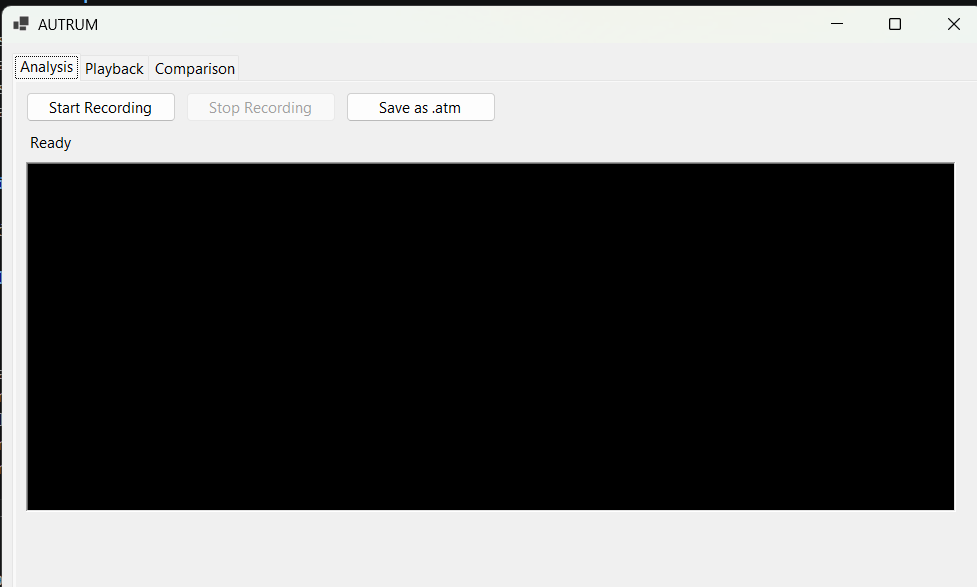
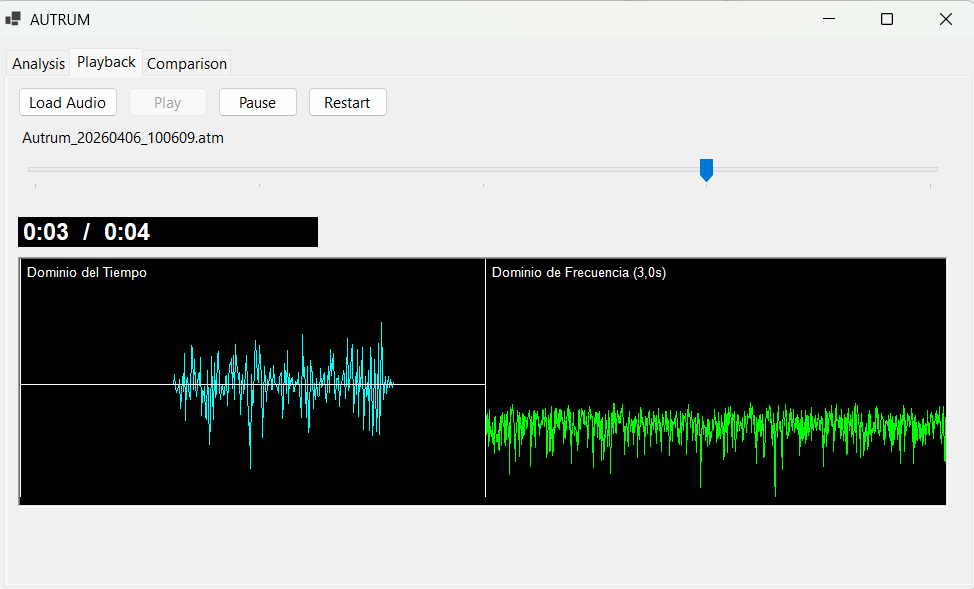
Add image file for Tareas Cortas TC1

Changed region(s): [[0.0, 0.092, 0.9856, 0.8893], [0.0, 0.0, 1.0, 0.0613]]

diff --git a/Tareas Cortas/TC1/Documentacion.md b/Tareas Cortas/TC1/Documentacion.md
@@ -90,9 +90,9 @@ Permite:
 - Visualizar el dominio de la frecuencia.
 - Generar archivos `.atm` con el audio original y los datos espectrales.
 
-![alt text](image.png)
+![alt text](image-4.png)
+![alt text](image-5.png)
 
-![alt text](image-1.png)
 
 ### 3.2 Reproductor (Playback)
 
@@ -103,7 +103,8 @@ Permite:
 - Visualizar simultáneamente el dominio del tiempo y de la frecuencia.
 - Aplicar zoom a las gráficas.
 
-![alt text](image-2.png)
+![alt text](image-6.png)
+![alt text](image.png)
 
 ### 3.3 Comparador
 
@@ -117,7 +118,7 @@ Permite:
 - Determinar el nivel de coincidencia.
 - Aproximar la ubicación temporal de la coincidencia.
 
-![alt text](image-3.png)
+![alt text](image-7.png)
 
 
 ## 4. Fundamentos Teóricos